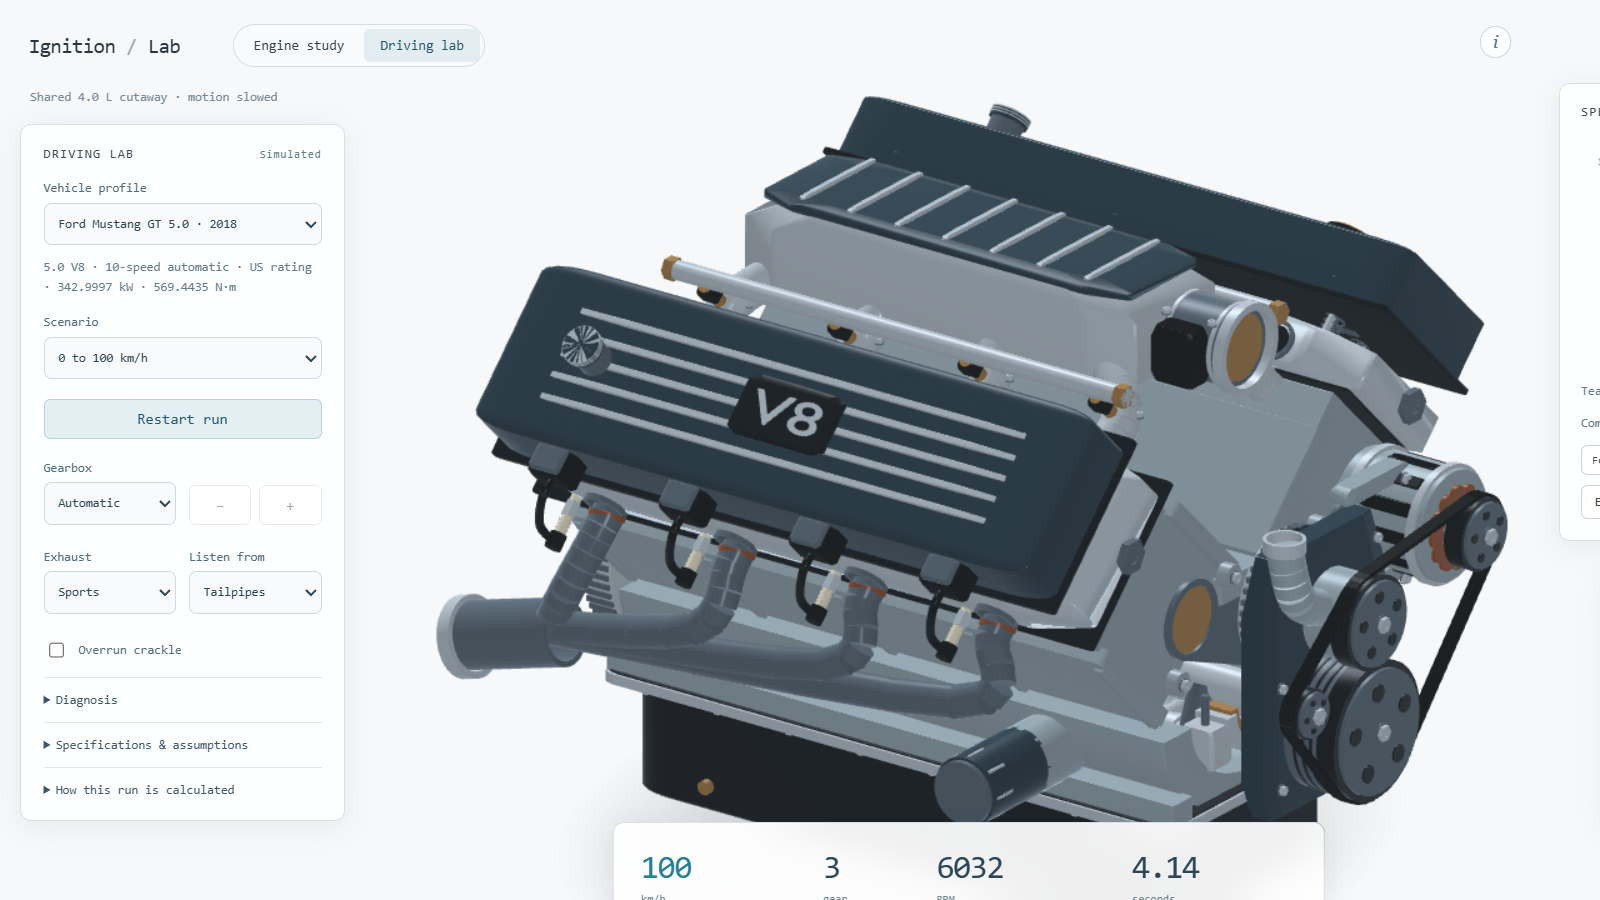
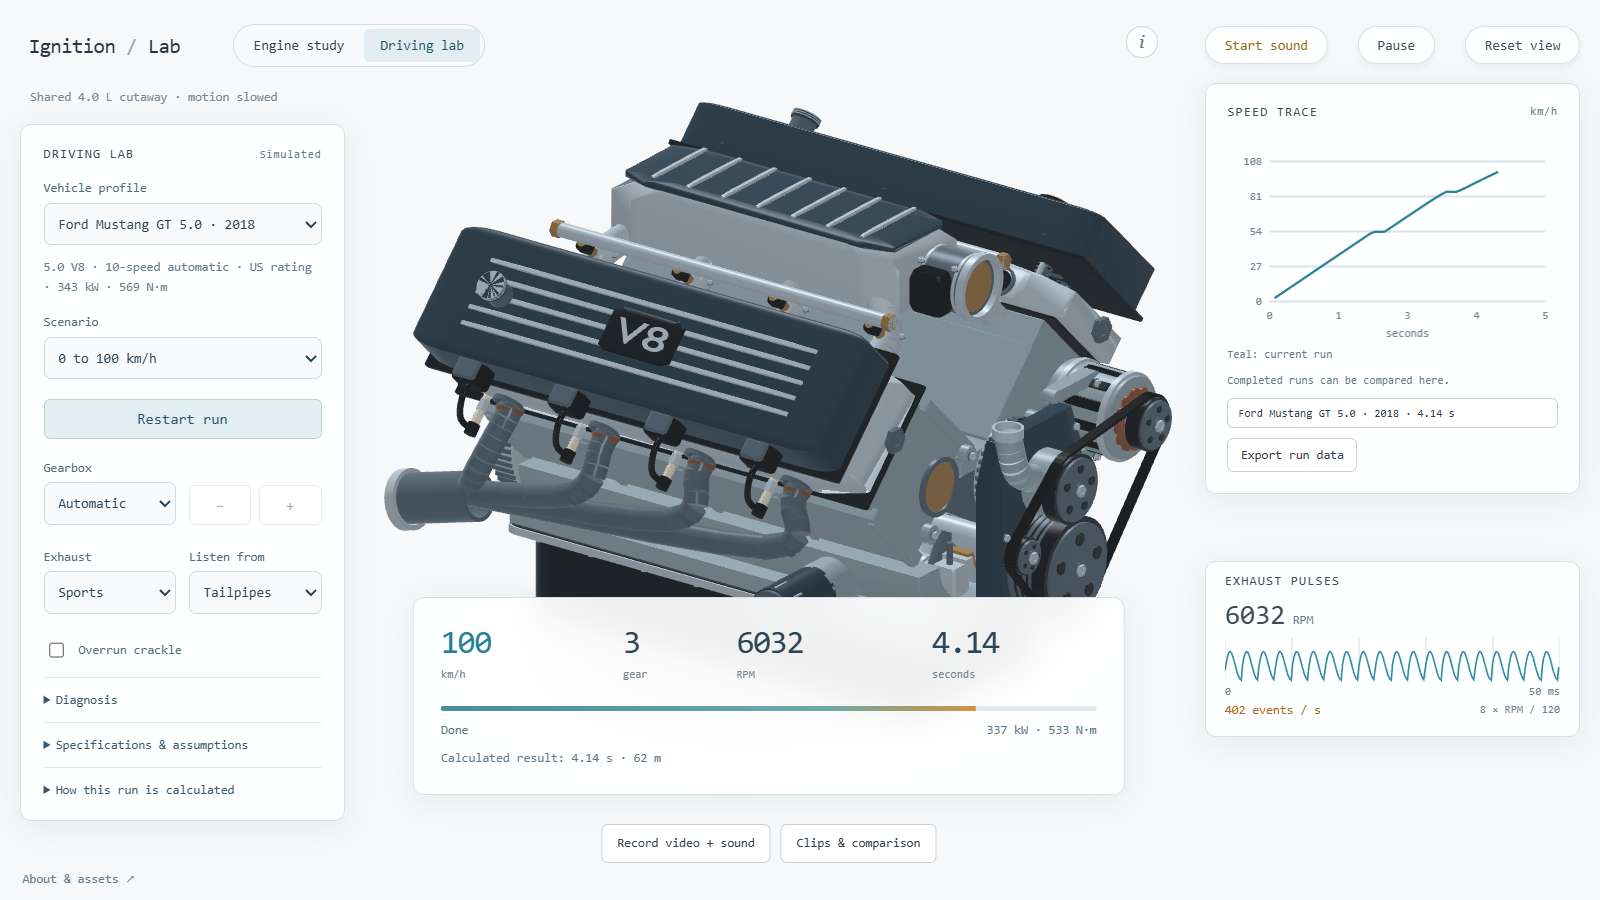
Tighten result-card spacing and refresh the driving screenshot

diff --git a/driving.css b/driving.css
@@ -3,6 +3,8 @@
 @media(max-width:1100px) and (min-width:761px){.drive-panel{left:12px;width:205px;padding:13px}.drive-plot-card{right:12px;width:270px}.drive-dashboard{left:232px;right:294px;width:auto;transform:none;padding:16px}.drive-readouts{gap:8px;grid-template-columns:1fr .5fr 1fr}.drive-readouts>div:last-child{display:none}.drive-readouts output{font-size:23px}.drive-record-bar{left:232px;transform:none;gap:5px}.drive-record-bar button{font-size:9px;padding:8px}.mode-switch{margin-left:8px}.mode-switch button{font-size:10px;padding:6px 9px}}
 @media(max-width:760px){.mode-switch{order:4;margin:9px 0 0;width:max-content}.mode-switch button{padding:7px 12px}body.driving main{display:flex;flex-direction:column}body.driving .engine-panel{order:0;height:400px}body.driving #engine{height:400px}body.driving .canvas-note{top:115px}body.driving .drive-panel,body.driving .drive-dashboard,body.driving .drive-plot-card,body.driving aside,body.driving .drive-record-bar{position:relative;left:auto;right:auto;top:auto;bottom:auto;width:auto;transform:none;margin:8px 15px;max-height:none}body.driving .drive-panel{order:2;padding:18px}body.driving .drive-dashboard{order:1;padding:18px}body.driving .drive-plot-card{order:4}body.driving aside{order:3}body.driving .drive-record-bar{order:5;margin-bottom:70px;flex-wrap:wrap}.drive-readouts output{font-size:25px}.drive-panel .drive-heading{margin-bottom:8px}.record-clips{grid-template-columns:1fr}.record-dialog{padding:18px}#drive-plot{height:220px}}
 .model-trigger{left:auto;right:354px;top:21px}
+.drive-panel select{font-family:inherit;font-size:11px}#drive-plot{height:160px}.drive-plot-card .drive-small{margin:6px 0;font-size:9px}#drive-history{max-height:54px}
+@media(max-width:760px){#drive-plot{height:220px}}
 @media(min-width:1500px){.model-trigger{right:391px}}
 @media(max-width:1100px) and (min-width:761px){.model-trigger{right:297px;top:20px}}
 @media(max-width:760px){.model-trigger{left:auto;right:19px;top:67px}}

diff --git a/src/drive-ui.ts b/src/drive-ui.ts
@@ -256,7 +256,7 @@ export class DrivingLab {
   private syncProfile() {
     const p = this.profile;
     get("profile-engine", HTMLParagraphElement).textContent =
-      `${p.engine} · ${p.peakPowerKw} kW · ${p.peakTorqueNm} N·m`;
+      `${p.engine} · ${p.peakPowerKw.toFixed(0)} kW · ${p.peakTorqueNm.toFixed(0)} N·m`;
     get("profile-specs", HTMLParagraphElement).textContent =
       `Model inputs: ${p.massKg} kg; CdA ${p.dragAreaM2.toFixed(2)} m²; tyre radius ${p.tyreRadiusM.toFixed(3)} m; final drive ${p.finalDrive}; ratios ${p.gears.join(" / ")}; shift ${p.shiftSeconds}s; drive efficiency ${(p.drivetrainEfficiency * 100).toFixed(0)}%.`;
     get("profile-assumptions", HTMLParagraphElement).textContent =
@@ -424,7 +424,7 @@ export class DrivingLab {
       right = w - 10;
     const maxX = dyno
       ? this.profile.redlineRpm
-      : Math.max(10, s.elapsed, base?.elapsed ?? 0);
+      : Math.max(5, s.elapsed, base?.elapsed ?? 0);
     const maxY = dyno
       ? Math.ceil(
           Math.max(this.profile.peakTorqueNm, this.profile.peakPowerKw) / 100,
